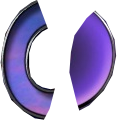
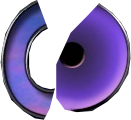
little corrections to second layer sprites, must to twek a little in code

diff --git a/Physics2_class4_handout/ModuleSceneIntro.cpp b/Physics2_class4_handout/ModuleSceneIntro.cpp
@@ -187,9 +187,9 @@ update_status ModuleSceneIntro::Update()
 	if (scene_phase == game_loop::INGAME)
 	{
 		SDL_Rect r = { 0,0,55,120 };
-		App->renderer->Blit(second_layer_tex, 304, 99, &r, 1.0f); 
-		r = { 68,10,50,102 };
-		App->renderer->Blit(second_layer_tex, 75, 117, &r, 1.0f);
+		App->renderer->Blit(second_layer_tex, 303, 99, &r, 1.0f); 
+		r = { 56,3,74,110 };
+		App->renderer->Blit(second_layer_tex, 48, 109, &r, 1.0f);
 	}
 
 
